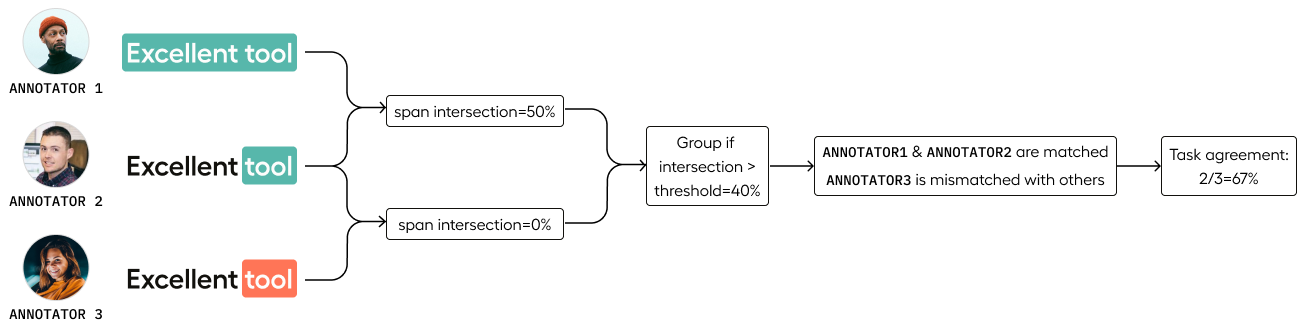
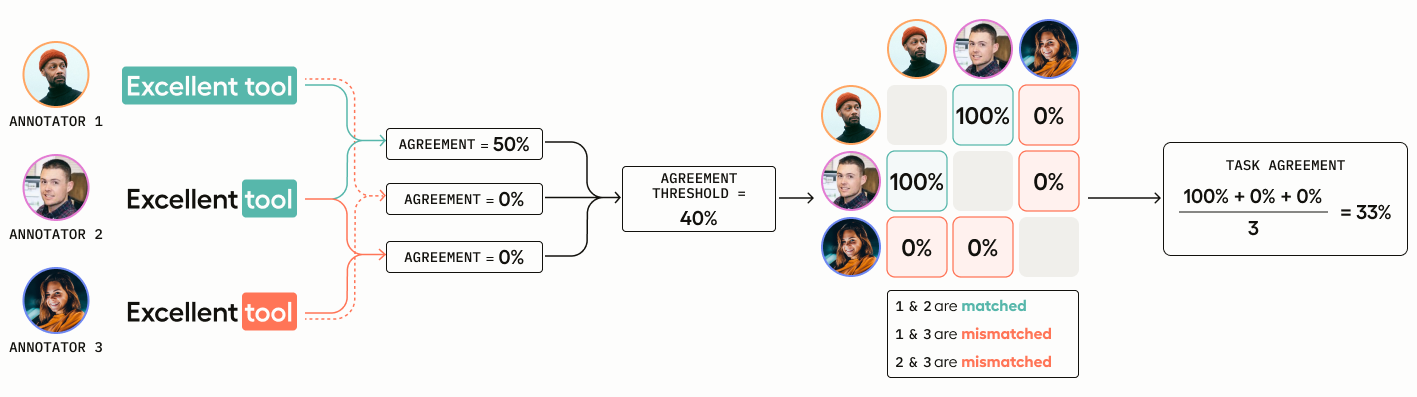
docs: Add default eval functions and new diagram (#7663)

diff --git a/docs/source/guide/stats.md b/docs/source/guide/stats.md
@@ -49,9 +49,9 @@ Review the diagram for a full explanation:
 One annotation that labels the text span "Excellent tool" as "positive", a second annotation that labels the span "tool" as "positive", and a third annotation that labels the text span "tool" as "negative".
 <br/><div style="text-align:center"><img alt="diagram showing example labeling scenario duplicated in surrounding text" src="/images/stats-agreement-example.png"/></div>
 
-The agreement score for the first two annotations is 50%, based on the intersection of the text spans. The agreement score comparing the second annotation with the third annotation is 0%, because the same text span was labeled differently. 
+The agreement score for the first two annotations is 50%, based on the intersection of the text spans. The agreement score comparing the second annotation with the third annotation is 0%, because the same text span was labeled differently. There is also a 0% match between the first and third annotations.  
 
-The task agreement conditions use a threshold of 40% to group annotations based on the agreement score, so the first and second annotations are matched with each other, and the third annotation is considered mismatched. In this case, task agreement exists for 2 of the 3 annotations, so the overall task agreement score is 67%.
+The task agreement conditions use a threshold of 40% to determine whether annotations are in agreement. Therefore, the first and second annotations are considered to be 100% in agreement. The remaining annotations have 0% agreements, so the overall task agreement score is (100 + 0 + 0)/3, or 33.33%.
 
 ## Agreement score
 
@@ -109,10 +109,44 @@ The following table lists the agreement metrics available in Label Studio Enterp
 | [Intersection over 1D timeseries spans](#Intersection-over-one-dimension-example) | TimeSeriesLabels | Time Series | Evaluates whether two given one-dimensional time series spans have points in common. |
 | [Exact matching pairwise comparison](#Exact-matching-choices-example) | Pairwise | Comparison | Evaluates whether the results exactly match. | 
 | [Exact matching rating](#Exact-matching-choices-example) | Rating | Evaluation, Rating | Evaluates the ratings assigned to tasks exactly match. |
+| [IOU distance for brushes](#Intersection-over-Union-example) | BrushLabels | Computer Vision, Object Detection | Evaluates the overlap compared to the union (IOU) of two brush mask regions. |
 
 ### Basic matching function
 
 Performs the default evaluation function for each control tag. For example for `TextArea` tag `Edit distance` metric is used.
+
+{% details <b>Default evaluation function</b> %}
+
+
+| Tag              | Basic Matching Function            |
+| :--------------: | :--------------------------------: |
+| BrushLabels      | IOU distance for brushes           |
+| Choices          | Exact match                        |
+| DateTime         | Exact match                        |
+| EllipseLabels    | Naive*                             |
+| HyperTextLabels  | Intersection over HTML Spans       |
+| KeyPointLabels   | Distance between keypoints         |
+| Labels           | 1D region intersection             |
+| Number           | Exact match                        |
+| Pairwise         | Exact match                        |
+| ParagraphLabels  | Intersection over paragraphs       |
+| PolygonLabels    | IOU over polygons                  |
+| Ranker           | Average precision                  |
+| Rating           | Exact match                        |
+| RectangleLabels  | IOU over bounding boxes            |
+| Relations        | Naive*                             |
+| Region           | 1D region intersection no labels   |
+| Shortcut         | Naive*                             |
+| Taxonomy         | Common subtree matches (IOU)       |
+| TextArea         | Levenshtein edit distance          |
+| TimeSeriesLabels | 1D region intersection timeseries  |
+| TimelineLabels   | Naive*                             |
+| VideoRectangle   | IOU                                |
+
+\* Naive -- “Naive” is Label Studio’s simplest pairwise agreement metric, and is essentially a python dictionary equality on the annotations' results.
+
+
+{% enddetails %}
 
 ### Exact matching
 
